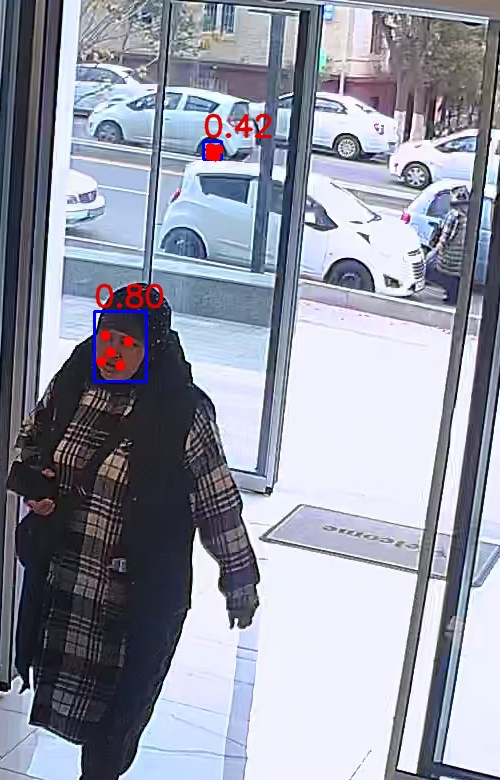
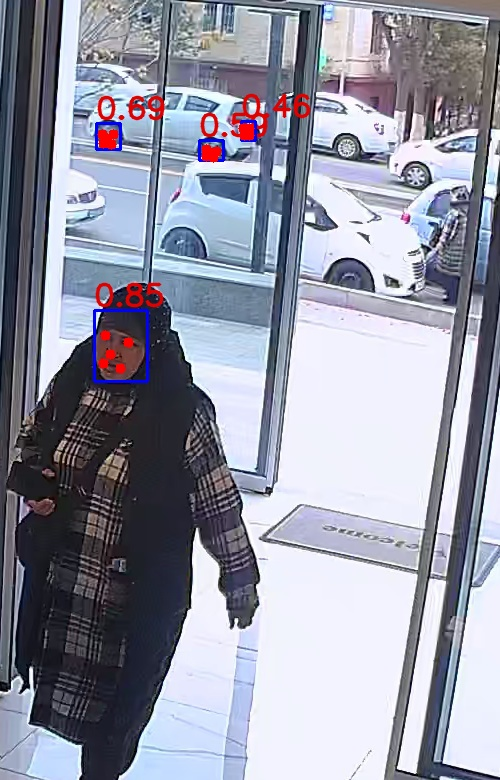
det_thresh=0.3 buffalo_l uchun rasmlar

Changed region(s): [[0.18, 0.3385, 0.33, 0.4923], [0.39, 0.1231, 0.63, 0.2154], [0.18, 0.1231, 0.33, 0.2154]]

diff --git a/docs/s3_dock.md b/docs/s3_dock.md
@@ -63,35 +63,35 @@ det_thresh=0.3
 
 | buffalo_l | buffalo_sc |
 |-----------|------------|
-|           |  ![2022-11-03 14_12_58_det.jpg](..%2Fdata%2Fproblems%2F2022-11-03%2014_12_58_det.jpg)          |
-|           |  ![2022-11-03 14_14_53_det.jpg](..%2Fdata%2Fproblems%2F2022-11-03%2014_14_53_det.jpg)          |
-|           |  ![2022-11-03 14_22_14_det.jpg](..%2Fdata%2Fproblems%2F2022-11-03%2014_22_14_det.jpg)          |
-|           |  ![2022-11-03 16_56_34_det.jpg](..%2Fdata%2Fproblems%2F2022-11-03%2016_56_34_det.jpg)          |
-|           |  ![2022-11-03 17_40_22_det.jpg](..%2Fdata%2Fproblems%2F2022-11-03%2017_40_22_det.jpg)          |
-|           |  ![2022-11-04 11_02_14_det.jpg](..%2Fdata%2Fproblems%2F2022-11-04%2011_02_14_det.jpg)          |
-|           |  ![2022-11-04 11_12_54_det.jpg](..%2Fdata%2Fproblems%2F2022-11-04%2011_12_54_det.jpg)          |
-|           |  ![2022-11-04 11_13_09_det.jpg](..%2Fdata%2Fproblems%2F2022-11-04%2011_13_09_det.jpg)          |
-|           |  ![2022-11-04 11_13_54_det.jpg](..%2Fdata%2Fproblems%2F2022-11-04%2011_13_54_det.jpg)          |
-|           |  ![2022-11-04 11_17_40_det.jpg](..%2Fdata%2Fproblems%2F2022-11-04%2011_17_40_det.jpg)          |
-|           |  ![2022-11-04 11_28_43_det.jpg](..%2Fdata%2Fproblems%2F2022-11-04%2011_28_43_det.jpg)          |
-|           |  ![2022-11-04 11_39_33_det.jpg](..%2Fdata%2Fproblems%2F2022-11-04%2011_39_33_det.jpg)          |
-|           |  ![2022-11-04 13_06_04_det.jpg](..%2Fdata%2Fproblems%2F2022-11-04%2013_06_04_det.jpg)          |
-|           |  ![2022-11-04 14_41_07_det.jpg](..%2Fdata%2Fproblems%2F2022-11-04%2014_41_07_det.jpg)          |
-|           |  ![2022-11-04 15_10_07_det.jpg](..%2Fdata%2Fproblems%2F2022-11-04%2015_10_07_det.jpg)          |
-|           |  ![2022-11-04 16_00_18_det.jpg](..%2Fdata%2Fproblems%2F2022-11-04%2016_00_18_det.jpg)          |
-|           |  ![2022-11-04 16_24_11_det.jpg](..%2Fdata%2Fproblems%2F2022-11-04%2016_24_11_det.jpg)          |
-|           |  ![2022-11-04 17_56_18_det.jpg](..%2Fdata%2Fproblems%2F2022-11-04%2017_56_18_det.jpg)          |
-|           |  ![2022-11-04 18_57_00_det.jpg](..%2Fdata%2Fproblems%2F2022-11-04%2018_57_00_det.jpg)          |
-|           |  ![2022-11-04 19_05_03_det.jpg](..%2Fdata%2Fproblems%2F2022-11-04%2019_05_03_det.jpg)          |
-|           |  ![2022-11-04 20_07_23_det.jpg](..%2Fdata%2Fproblems%2F2022-11-04%2020_07_23_det.jpg)          |
-|           |  ![2022-11-04 20_38_06_det.jpg](..%2Fdata%2Fproblems%2F2022-11-04%2020_38_06_det.jpg)          |
-|           |  ![2022-11-07 14_09_42_det.jpg](..%2Fdata%2Fproblems%2F2022-11-07%2014_09_42_det.jpg)          |
-|           |  ![2022-11-07 14_16_15_det.jpg](..%2Fdata%2Fproblems%2F2022-11-07%2014_16_15_det.jpg)          |
-|           |  ![2022-11-07 14_49_17_det.jpg](..%2Fdata%2Fproblems%2F2022-11-07%2014_49_17_det.jpg)          |
-|           |  ![2022-11-07 14_49_20_det.jpg](..%2Fdata%2Fproblems%2F2022-11-07%2014_49_20_det.jpg)          |
-|           |  ![2022-11-07 15_39_46_det.jpg](..%2Fdata%2Fproblems%2F2022-11-07%2015_39_46_det.jpg)          |
-|           |  ![2022-11-07 16_35_59_det.jpg](..%2Fdata%2Fproblems%2F2022-11-07%2016_35_59_det.jpg)          |
-|           |  ![2022-11-07 16_41_46_det.jpg](..%2Fdata%2Fproblems%2F2022-11-07%2016_41_46_det.jpg)          |
+|   ![2022-11-03 14_12_58_det.jpg](..%2Fdata%2Fproblems%2F2022-11-03%2014_12_58_det.jpg)        |  ![2022-11-03 14_12_58_det.jpg](..%2Fdata%2Fproblems%2F2022-11-03%2014_12_58_det.jpg)          |
+|   ![2022-11-03 14_14_53_det.jpg](..%2Fdata%2Fproblems%2F2022-11-03%2014_14_53_det.jpg)        |  ![2022-11-03 14_14_53_det.jpg](..%2Fdata%2Fproblems%2F2022-11-03%2014_14_53_det.jpg)          |
+|   ![2022-11-03 14_22_14_det.jpg](..%2Fdata%2Fproblems%2F2022-11-03%2014_22_14_det.jpg)       |  ![2022-11-03 14_22_14_det.jpg](..%2Fdata%2Fproblems%2F2022-11-03%2014_22_14_det.jpg)          |
+|   ![2022-11-03 16_56_34_det.jpg](..%2Fdata%2Fproblems%2F2022-11-03%2016_56_34_det.jpg)        |  ![2022-11-03 16_56_34_det.jpg](..%2Fdata%2Fproblems%2F2022-11-03%2016_56_34_det.jpg)          |
+|   ![2022-11-03 17_40_22_det.jpg](..%2Fdata%2Fproblems%2F2022-11-03%2017_40_22_det.jpg)        |  ![2022-11-03 17_40_22_det.jpg](..%2Fdata%2Fproblems%2F2022-11-03%2017_40_22_det.jpg)          |
+|   ![2022-11-04 11_02_14_det.jpg](..%2Fdata%2Fproblems%2F2022-11-04%2011_02_14_det.jpg)        |  ![2022-11-04 11_02_14_det.jpg](..%2Fdata%2Fproblems%2F2022-11-04%2011_02_14_det.jpg)          |
+|   ![2022-11-04 11_12_54_det.jpg](..%2Fdata%2Fproblems%2F2022-11-04%2011_12_54_det.jpg)        |  ![2022-11-04 11_12_54_det.jpg](..%2Fdata%2Fproblems%2F2022-11-04%2011_12_54_det.jpg)          |
+|   ![2022-11-04 11_13_09_det.jpg](..%2Fdata%2Fproblems%2F2022-11-04%2011_13_09_det.jpg)        |  ![2022-11-04 11_13_09_det.jpg](..%2Fdata%2Fproblems%2F2022-11-04%2011_13_09_det.jpg)          |
+|   ![2022-11-04 11_13_54_det.jpg](..%2Fdata%2Fproblems%2F2022-11-04%2011_13_54_det.jpg)        |  ![2022-11-04 11_13_54_det.jpg](..%2Fdata%2Fproblems%2F2022-11-04%2011_13_54_det.jpg)          |
+|   ![2022-11-04 11_17_40_det.jpg](..%2Fdata%2Fproblems%2F2022-11-04%2011_17_40_det.jpg)        |  ![2022-11-04 11_17_40_det.jpg](..%2Fdata%2Fproblems%2F2022-11-04%2011_17_40_det.jpg)          |
+|   ![2022-11-04 11_28_43_det.jpg](..%2Fdata%2Fproblems%2F2022-11-04%2011_28_43_det.jpg)        |  ![2022-11-04 11_28_43_det.jpg](..%2Fdata%2Fproblems%2F2022-11-04%2011_28_43_det.jpg)          |
+|   ![2022-11-04 11_39_33_det.jpg](..%2Fdata%2Fproblems%2F2022-11-04%2011_39_33_det.jpg)        |  ![2022-11-04 11_39_33_det.jpg](..%2Fdata%2Fproblems%2F2022-11-04%2011_39_33_det.jpg)          |
+|   ![2022-11-04 13_06_04_det.jpg](..%2Fdata%2Fproblems%2F2022-11-04%2013_06_04_det.jpg)        |  ![2022-11-04 13_06_04_det.jpg](..%2Fdata%2Fproblems%2F2022-11-04%2013_06_04_det.jpg)          |
+|   ![2022-11-04 14_41_07_det.jpg](..%2Fdata%2Fproblems%2F2022-11-04%2014_41_07_det.jpg)        |  ![2022-11-04 14_41_07_det.jpg](..%2Fdata%2Fproblems%2F2022-11-04%2014_41_07_det.jpg)          |
+|   ![2022-11-04 15_10_07_det.jpg](..%2Fdata%2Fproblems%2F2022-11-04%2015_10_07_det.jpg)        |  ![2022-11-04 15_10_07_det.jpg](..%2Fdata%2Fproblems%2F2022-11-04%2015_10_07_det.jpg)          |
+|   ![2022-11-04 16_00_18_det.jpg](..%2Fdata%2Fproblems%2F2022-11-04%2016_00_18_det.jpg)        |  ![2022-11-04 16_00_18_det.jpg](..%2Fdata%2Fproblems%2F2022-11-04%2016_00_18_det.jpg)          |
+|   ![2022-11-04 16_24_11.jpg](..%2Fdata%2Fproblems%2F2022-11-04%2016_24_11.jpg)        |  ![2022-11-04 16_24_11_det.jpg](..%2Fdata%2Fproblems%2F2022-11-04%2016_24_11_det.jpg)          |
+|   ![2022-11-04 17_56_18_det.jpg](..%2Fdata%2Fproblems%2F2022-11-04%2017_56_18_det.jpg)        |  ![2022-11-04 17_56_18_det.jpg](..%2Fdata%2Fproblems%2F2022-11-04%2017_56_18_det.jpg)          |
+|   ![2022-11-04 18_57_00_det.jpg](..%2Fdata%2Fproblems%2F2022-11-04%2018_57_00_det.jpg)        |  ![2022-11-04 18_57_00_det.jpg](..%2Fdata%2Fproblems%2F2022-11-04%2018_57_00_det.jpg)          |
+|   ![2022-11-04 19_05_03_det.jpg](..%2Fdata%2Fproblems%2F2022-11-04%2019_05_03_det.jpg)        |  ![2022-11-04 19_05_03_det.jpg](..%2Fdata%2Fproblems%2F2022-11-04%2019_05_03_det.jpg)          |
+|   ![2022-11-04 20_07_23_det.jpg](..%2Fdata%2Fproblems%2F2022-11-04%2020_07_23_det.jpg)        |  ![2022-11-04 20_07_23_det.jpg](..%2Fdata%2Fproblems%2F2022-11-04%2020_07_23_det.jpg)          |
+|   ![2022-11-04 20_38_06_det.jpg](..%2Fdata%2Fproblems%2F2022-11-04%2020_38_06_det.jpg)        |  ![2022-11-04 20_38_06_det.jpg](..%2Fdata%2Fproblems%2F2022-11-04%2020_38_06_det.jpg)          |
+|   ![2022-11-07 14_09_42_det.jpg](..%2Fdata%2Fproblems%2F2022-11-07%2014_09_42_det.jpg)        |  ![2022-11-07 14_09_42_det.jpg](..%2Fdata%2Fproblems%2F2022-11-07%2014_09_42_det.jpg)          |
+|   ![2022-11-07 14_16_15_det.jpg](..%2Fdata%2Fproblems%2F2022-11-07%2014_16_15_det.jpg)        |  ![2022-11-07 14_16_15_det.jpg](..%2Fdata%2Fproblems%2F2022-11-07%2014_16_15_det.jpg)          |
+|   ![2022-11-07 14_49_17_det.jpg](..%2Fdata%2Fproblems%2F2022-11-07%2014_49_17_det.jpg)        |  ![2022-11-07 14_49_17_det.jpg](..%2Fdata%2Fproblems%2F2022-11-07%2014_49_17_det.jpg)          |
+|   ![2022-11-07 14_49_20.jpg](..%2Fdata%2Fproblems%2F2022-11-07%2014_49_20.jpg)        |  ![2022-11-07 14_49_20_det.jpg](..%2Fdata%2Fproblems%2F2022-11-07%2014_49_20_det.jpg)          |
+|   ![2022-11-07 15_39_46.jpg](..%2Fdata%2Fproblems%2F2022-11-07%2015_39_46.jpg)        |  ![2022-11-07 15_39_46_det.jpg](..%2Fdata%2Fproblems%2F2022-11-07%2015_39_46_det.jpg)          |
+|   ![2022-11-07 16_35_59_det.jpg](..%2Fdata%2Fproblems%2F2022-11-07%2016_35_59_det.jpg)        |  ![2022-11-07 16_35_59_det.jpg](..%2Fdata%2Fproblems%2F2022-11-07%2016_35_59_det.jpg)          |
+|   ![2022-11-07 16_41_46_det.jpg](..%2Fdata%2Fproblems%2F2022-11-07%2016_41_46_det.jpg)        |  ![2022-11-07 16_41_46_det.jpg](..%2Fdata%2Fproblems%2F2022-11-07%2016_41_46_det.jpg)          |
 
 
 
